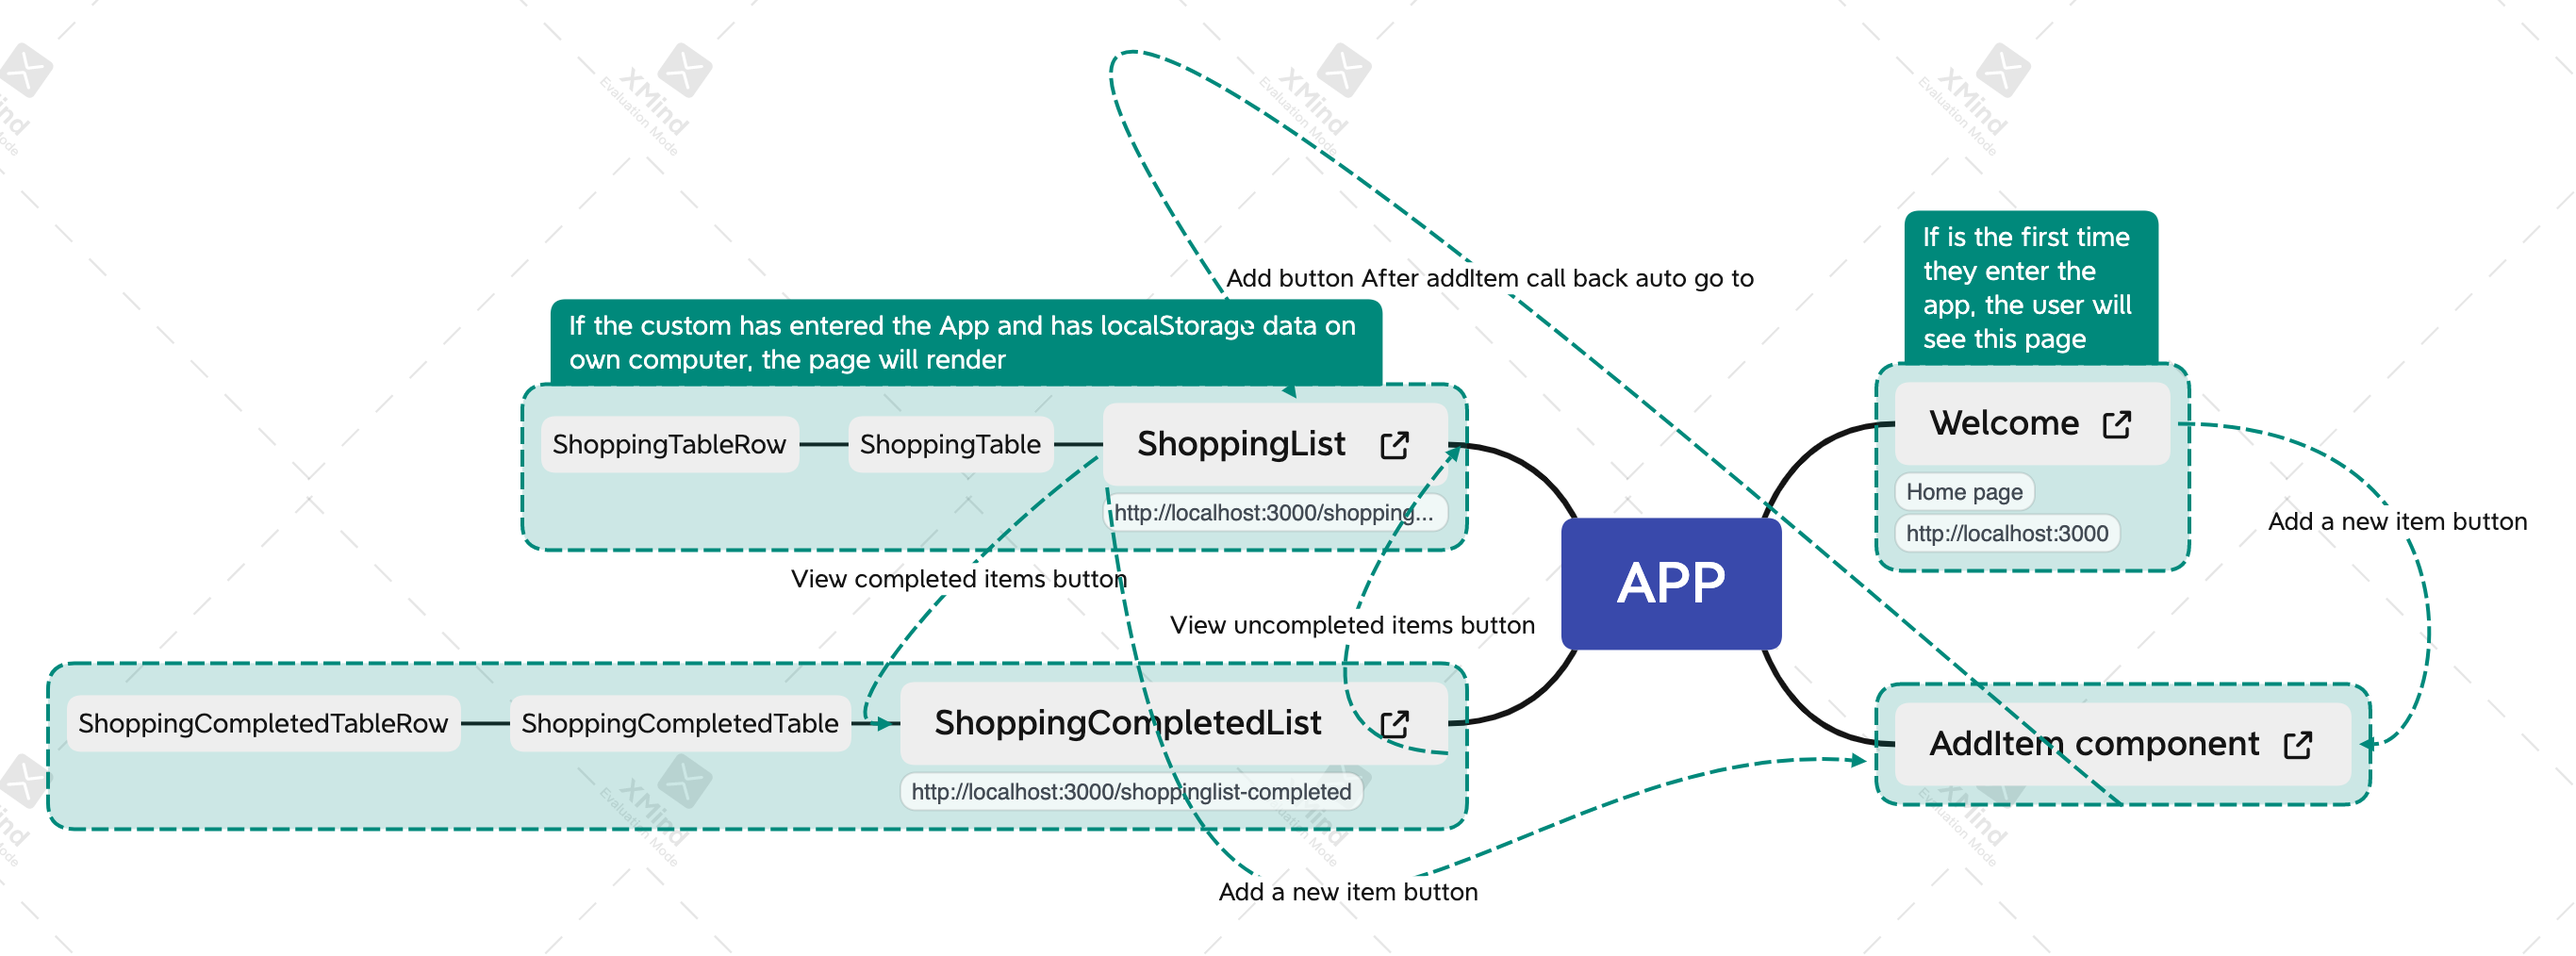
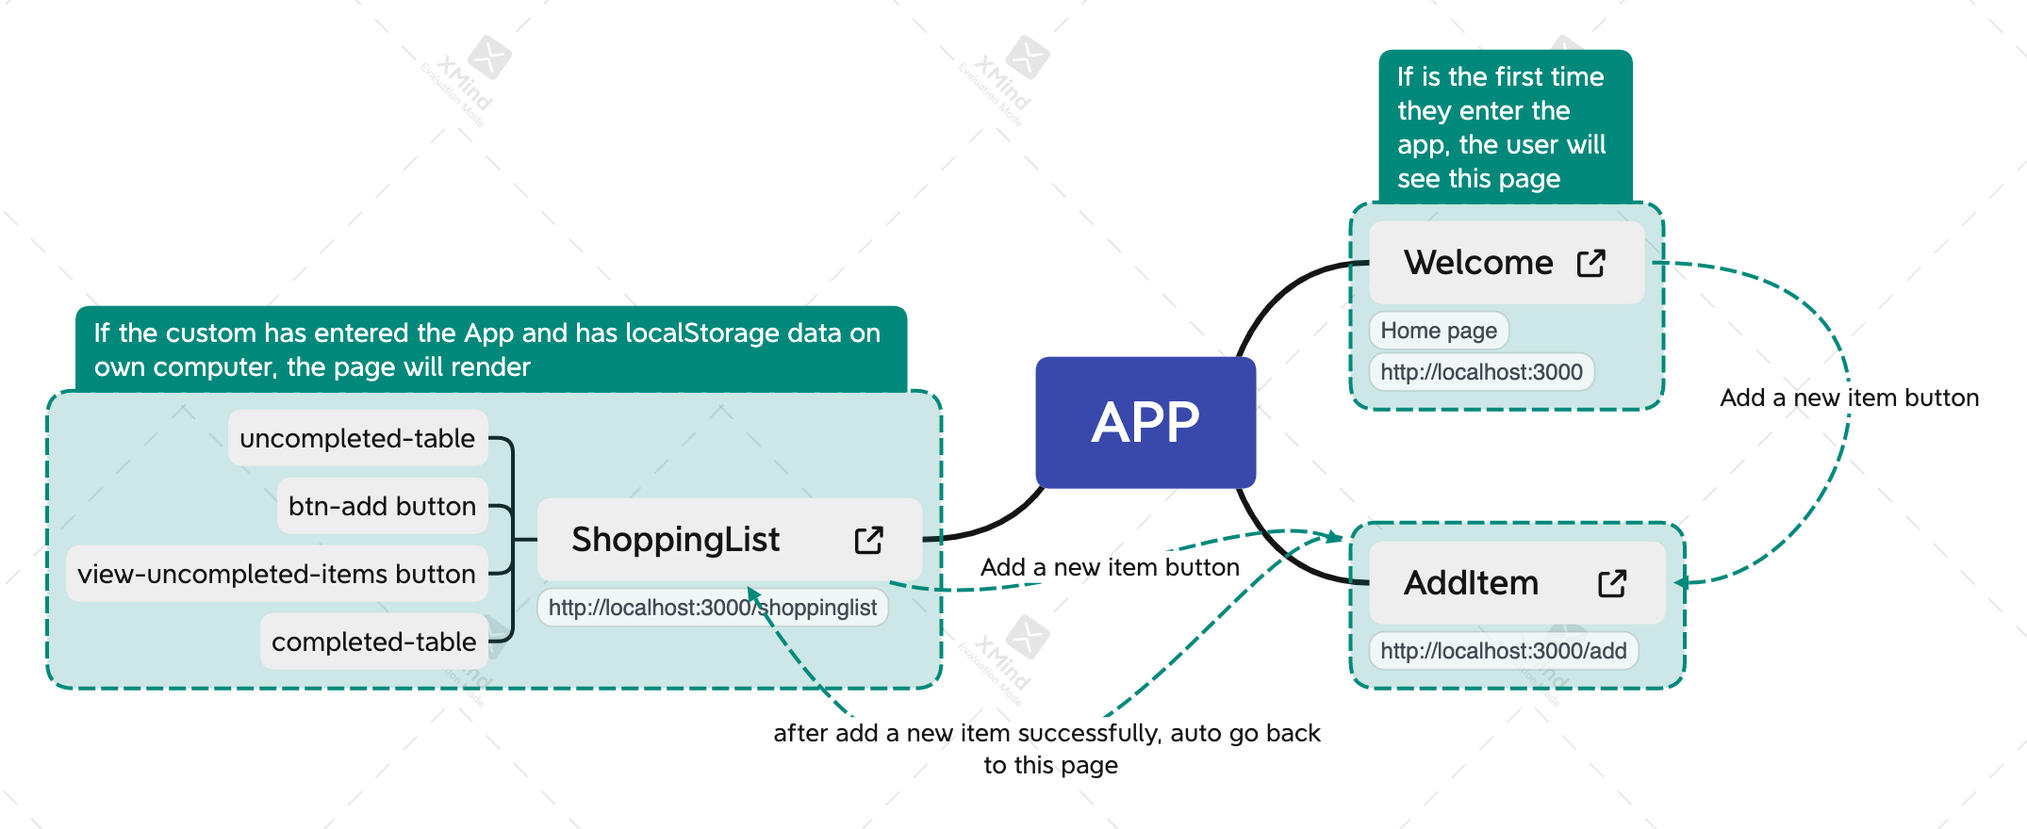
refactor and update APP.png

diff --git a/src/App.css b/src/App.css
@@ -7,51 +7,14 @@
     src: url('../public/assets/fonts/Noto_Sans/NotoSans-Regular.ttf')
 }
 
+/* all */
 * {
     font-family: NotoSans-Regular;
     font-size: 14px;
     color: #000000;
     box-sizing: border-box;
 }
-
-html, body {
-    background: #FFFFFF;
-    margin: 0;
-}
-
-/* content */
-.content {
-    display: grid;
-    grid-template-columns: 1fr 4fr 1fr; 
-    margin-top: 40px;
-    margin-bottom: 40px;
-}
-/* Header */
-.header {
-    height: 60px;
-    /* margin-top: 10px; */
-    grid-column: 2/3;   
-}
-.header ul{
-    list-style-type: none;
-} 
-.header img {
-    max-height: 40px;
-}
-/* main */
-.main{
-    grid-column: 2/3;
-}
-/* Welcome component */
-.welcome{
-    margin: 14px;
-    text-align: center;
-}
-.welcome img{
-    height: 200px;
-    width: auto;
-}
-.welcome h1{
+h1{
     font-size: 40px;
 }
 
@@ -66,6 +29,49 @@ html, body {
       border-radius: 10px;
       box-shadow: 0 12px 16px 0 rgba(0,0,0,0.24), 0 17px 50px 0 rgba(0,0,0,0.19);
 }
+
+/* html, body */
+html, body {
+    background: #FFFFFF;
+    margin: 0;
+}
+
+/* content */
+.content {
+    display: grid;
+    grid-template-columns: 1fr 4fr 1fr; 
+    margin-top: 40px;
+    margin-bottom: 40px;
+}
+
+/* Header */
+.header {
+    height: 60px;
+    grid-column: 2/3;   
+}
+.header ul{
+    list-style-type: none;
+} 
+.header img {
+    max-height: 40px;
+}
+
+/* main */
+.main{
+    grid-column: 2/3;
+}
+
+/* Welcome component */
+.welcome{
+    margin: 14px;
+    text-align: center;
+}
+.welcome img{
+    height: 200px;
+    width: auto;
+}
+
+
 /* AddItem component */
 .add-item{
     display: flexbox;
@@ -108,29 +114,21 @@ form.add-item-form input:focus{
     color: gray;
 }
 .list input:hover{
-    color: black;
+    color: #000000;
 }
 
-.view-completed-items{
-    display: inline-block;
-    box-shadow: 0 0 0 1000px FFFFFF inset;
-    margin-top: 50px;
-}
 /* shopping table component */
-.list table, th, td {
-    border: none;
-    border-collapse: collapse;
-  }
-th, td {
-    padding: 10px;
-  }
 .table{
     width: 100%;
     margin: 1em;
     table-layout: auto;
     text-align: center;
 }
-
+.list table, th, td {
+    border: none;
+    border-collapse: collapse;
+    padding: 10px;
+  }
 .item-img{
    width: 100px;
    height: auto;

diff --git a/src/components/ShoppingList.jsx b/src/components/ShoppingList.jsx
@@ -13,7 +13,8 @@ const ShoppingList = ({completedList,uncompletedList,toggleItemCompleted}) => {
     
     return (            
         <div className="list">
-            <div id="uncompleted-table">
+            <h1>Shopping List</h1>
+            <div className="uncompleted-table">
              {
                 uncompletedList.length > 0  &&
                 <Table 
@@ -26,18 +27,18 @@ const ShoppingList = ({completedList,uncompletedList,toggleItemCompleted}) => {
             <div className="view">
                 <input className="view-uncompleted-items" onClick={toggleHide} type="button" value="View completed items"/>
             </div>
-            <div id="completed-table" style={{ display: theme.show }}>
+            <div className="completed-table" style={{ display: theme.show }}>
             {
                 completedList.length > 0  &&
                 <Table 
                 list = {completedList}
                 toggleItemCompleted = {toggleItemCompleted}/>
-            }
+            }          
+            </div>
             { 
                 !uncompletedList.length && (   
-                <p className='todo-item text-center'>No uncompleted list! Check your uncompleted list</p>              
+                <p className='todo-item text-center'>No uncompleted list! Check your completed list!</p>              
             )}
-            </div>
 
            
 

diff --git a/src/components/table/TableRow.jsx b/src/components/table/TableRow.jsx
@@ -1,18 +1,20 @@
-import React from 'react'
+import React,{useState} from 'react';
+
 
 const TableRow = ({item,toggleItemCompleted}) => {
+
+    const [checked, setChecked] = useState(false);
+
     if(item === undefined) {return null}
     const toggle = () => {
         toggleItemCompleted(item.id)
     }
-    return (
-       
+    return (      
             <tr>
-                <td><input  onClick={toggle} defaultChecked = {item.completed ?  "checked" : ""}  id="item-name" type="checkbox"/><label  htmlFor="item-name"></label>{item.name}</td>
+                <td><input className={checked ? "completed" : "uncompleted"} checked={checked} onChange={() => setChecked(!checked)} onClick={toggle}  id="item-name" type="checkbox"/><label  htmlFor="item-name"></label>{item.name}</td>
                 <td onClick={toggle}>{item.price}</td>
                 <td><i className="fas fa-camera"></i></td>
-            </tr>
-     
+            </tr>     
     )
 }
 

diff --git a/src/components/AddItem.jsx b/src/components/AddItem.jsx
@@ -3,7 +3,7 @@ import { useRef, useState } from "react";
 import { useNavigate} from "react-router-dom";
 
 
-const AddItem = ({addItem }) => {
+const AddItem = ({ addItem }) => {
   const inputRef = useRef();
   const [name, setName] = useState("");
   const [price, setPrice] = useState("");

diff --git a/src/components/Welcome.jsx b/src/components/Welcome.jsx
@@ -1,5 +1,5 @@
 import React from 'react';
-import { useNavigate} from "react-router-dom";
+import { useNavigate } from "react-router-dom";
 
 function Welcome() {
     const navigate = useNavigate();
